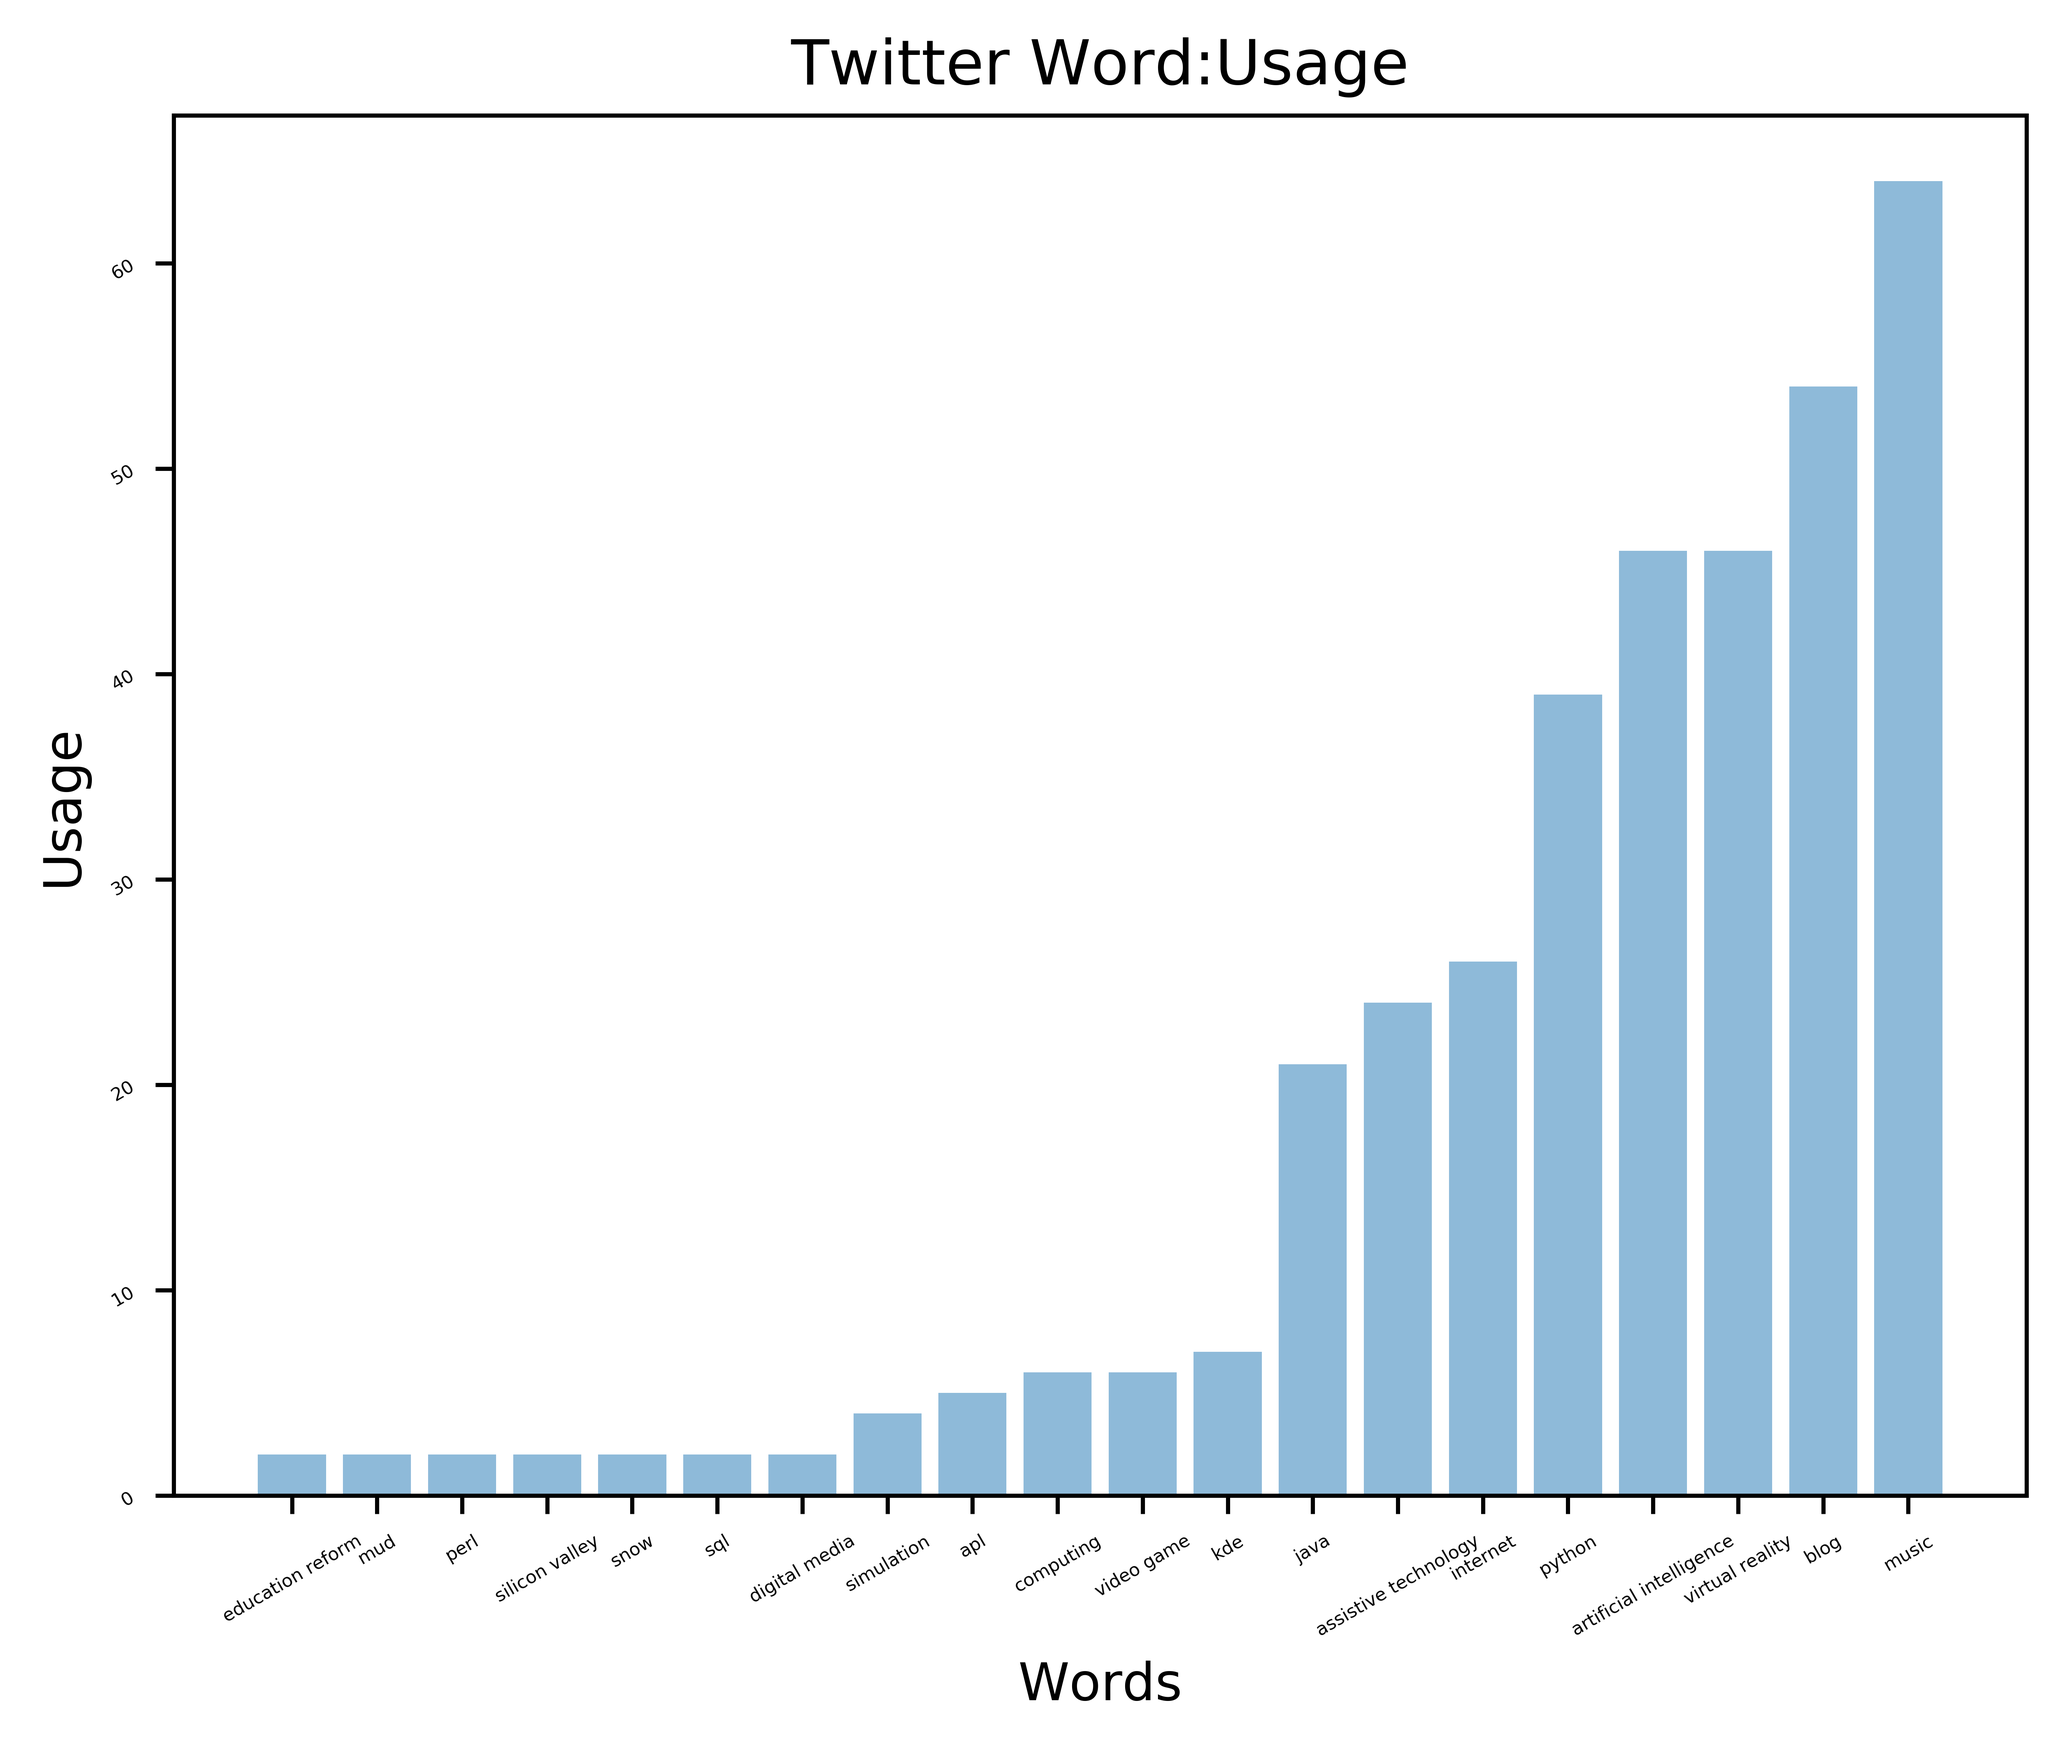
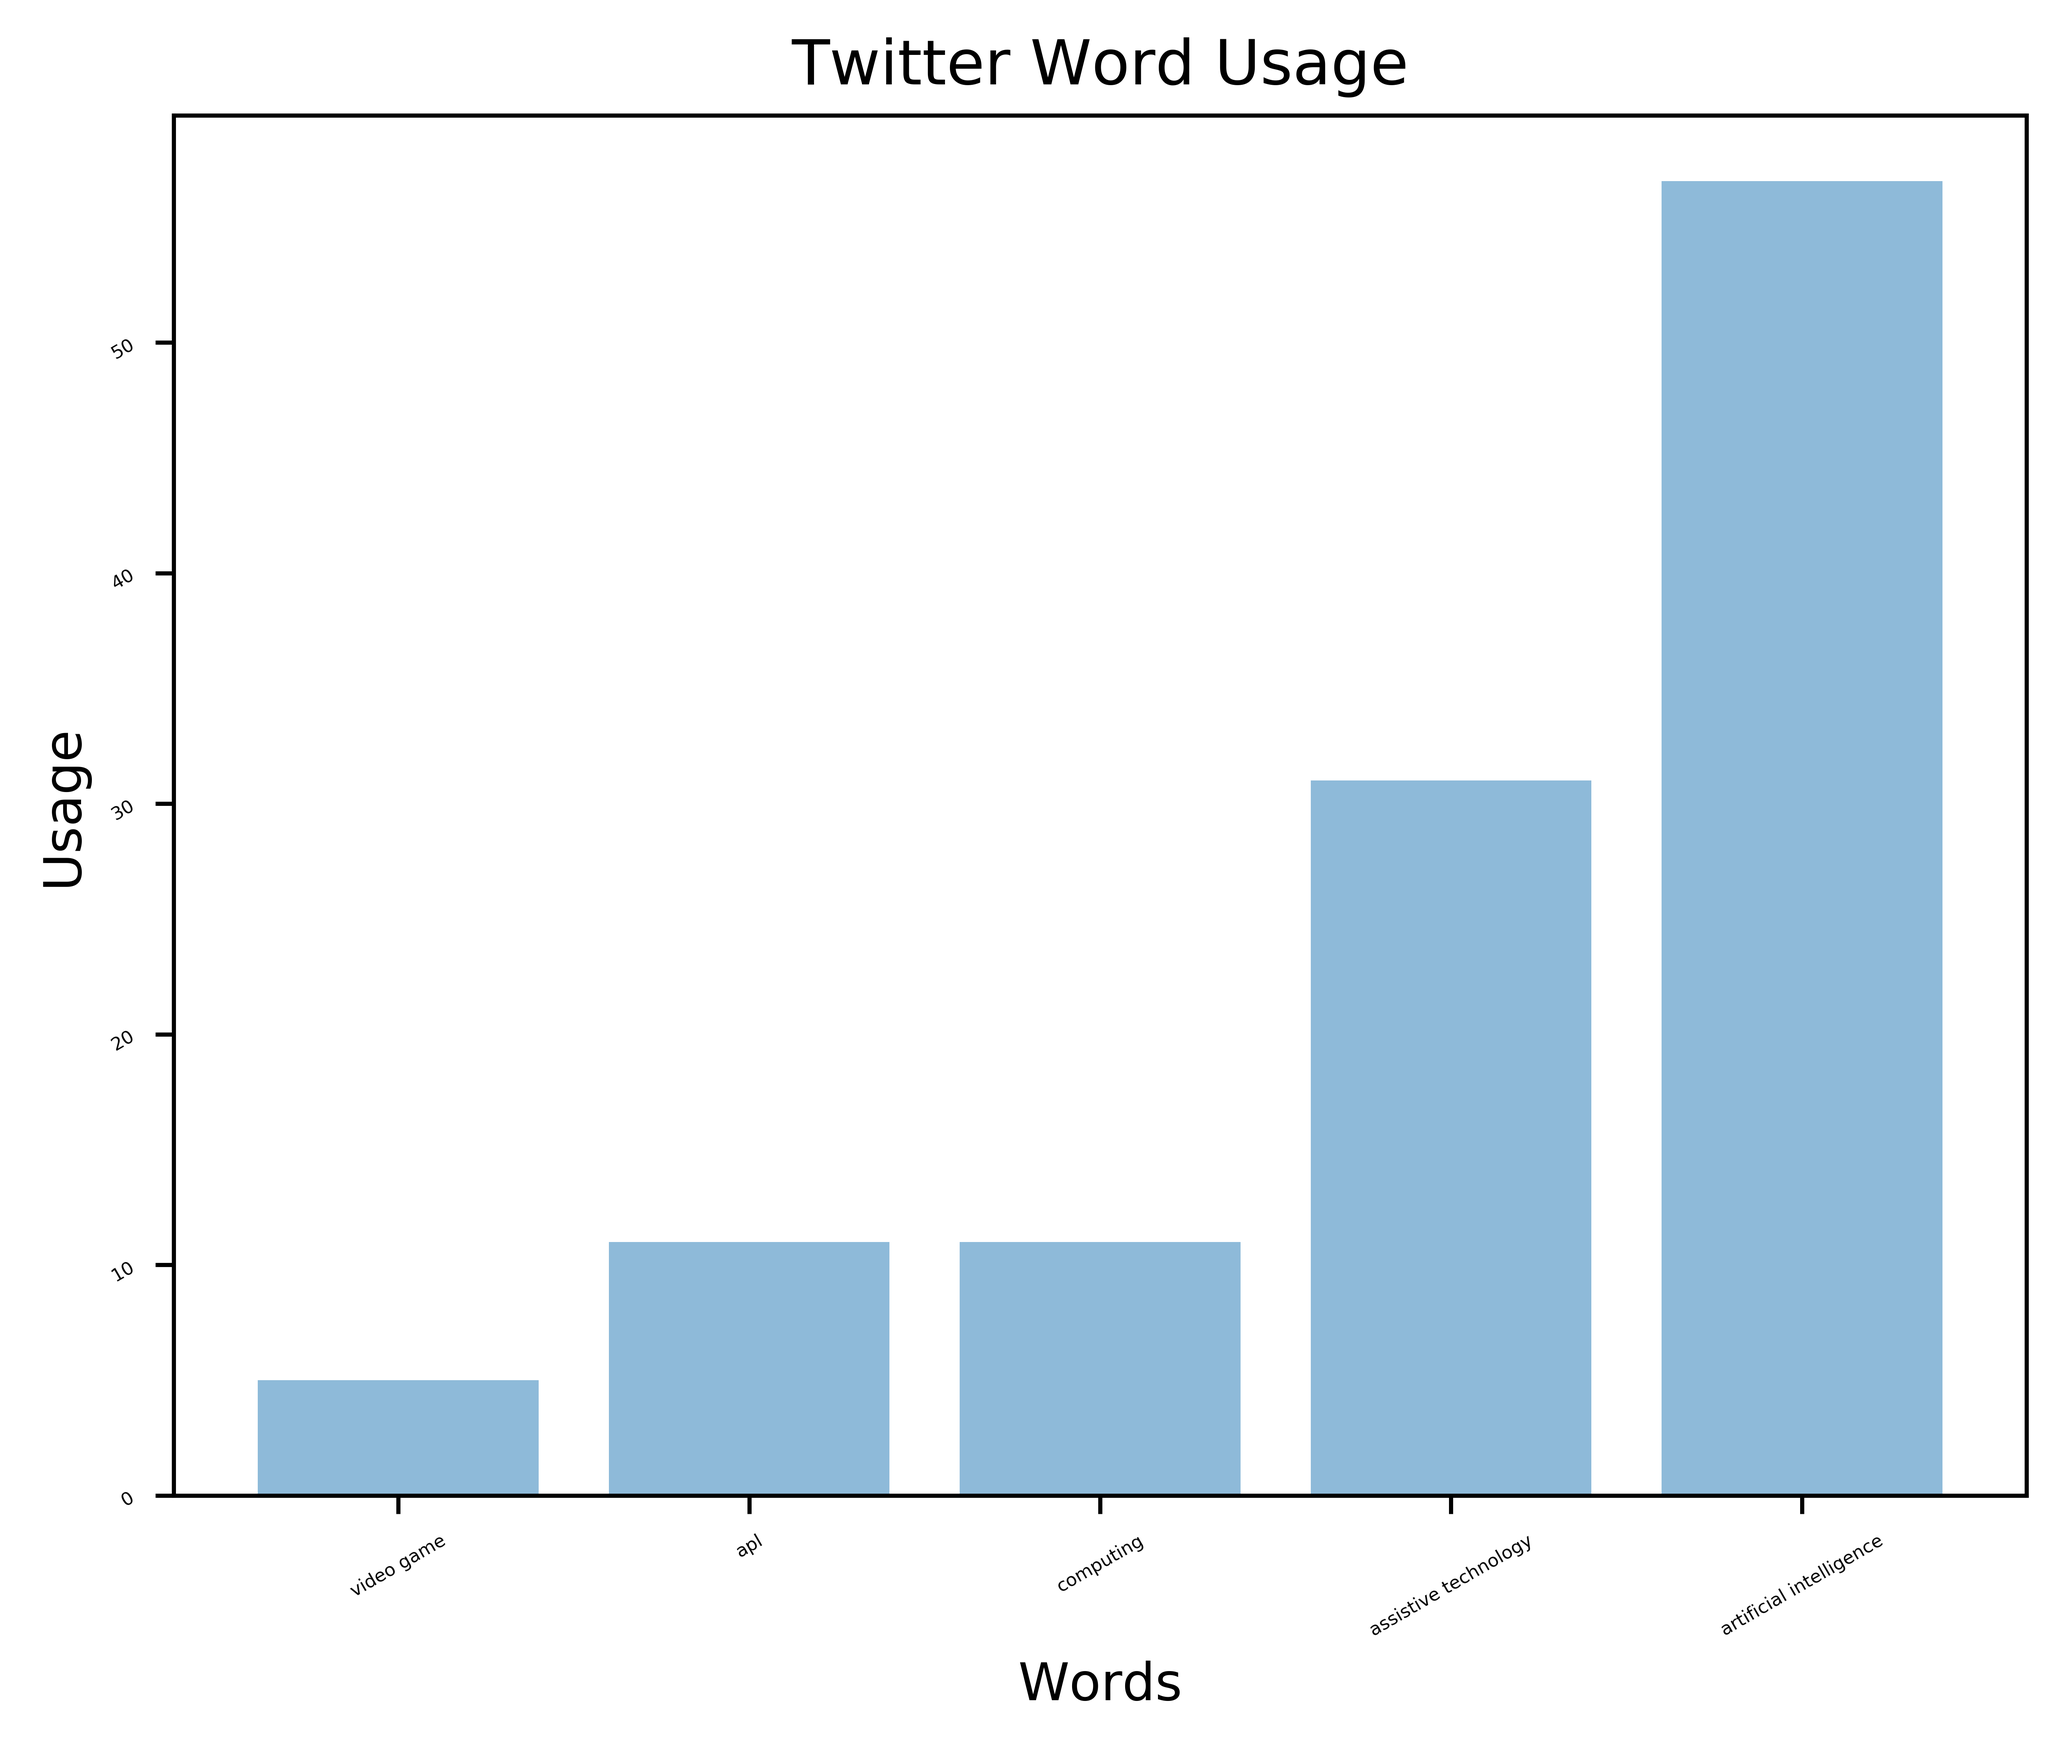
final thing

Changed region(s): [[0.1245, 0.0936, 0.9334, 0.9045], [0.8712, 0.8733, 0.9023, 0.9045], [0.6534, 0.9045, 0.6845, 0.9357]]

diff --git a/Classify.py b/Classify.py
@@ -5,14 +5,20 @@
 
 import en_core_web_sm
 import re
+import requests
 import json
-import time
 from xml.etree.cElementTree import iterparse
 from collections import OrderedDict
 import numpy as np
 import matplotlib.pyplot as plt
+import smtplib
+from email.mime.multipart import MIMEMultipart
+from email.mime.text import MIMEText
+from email.mime.base import MIMEBase
+from email import encoders
+import datetime
 
-# Initialize entity model
+# Define named-entity model
 nlp = en_core_web_sm.load()
 
 # Create blacklist/whitelist
@@ -31,26 +37,20 @@ def majority_whitelist(text):
     return float(count / len(words_of_interest)) >= 0.80
 
 
-# Generate education/technology related wikipedia articles
+# Generate education/technology related wikipedia articles from wikipedia dump file
 def generate_wikipedia_data():
-    num_analyzed = 0
-    on_topic = []
+    on_topic = []  # Article titles that are relevant
     title = ""
     text = ""
-    # Go through XML
+    # Stream XML (MAKE SURE YOU HAVE WIKIPEDIA.XML DUMP FILE)
     for event, elem in iterparse(".\\wikipedia.xml"):
-        if num_analyzed == 50000:
-            break
         # Try to get title and text
         if "title" in elem.tag:
             title = elem.text
         if "text" in elem.tag:
             text = elem.text
-        # A title:text pair has been made
+        # If a title:text pair has been made
         if text != "" and title != "" and text is not None and title is not None:
-            num_analyzed += 1
-            if num_analyzed % 1000000 == 0:
-                print(num_analyzed)
             # Make sure it's not already been analyzed and that its text is relevant
             if majority_whitelist(text.lower()):
                 # Make sure title is relevant
@@ -62,24 +62,24 @@ def generate_wikipedia_data():
                         title = re.sub(twitter_blacklist_word, "", title.lower()).strip()
                     on_topic.append(title)
             # Clear variables to keep going
+            num_processed += 1
             title = ""
             text = ""
-        elem.clear()
     return on_topic
 
 
-# Get tweet data
+# Get tweet data from API
 def generate_tweet_data():
-    # Get twitter data
-    with open('.\\tweets.json', 'r', encoding='utf-8') as file:
-        text = json.loads(file.read())
-        list = []
-        for p in text["Tweets"]:
-            list.append(p["Text"])
+    # Get the daily twitter dump and write to file
+    response = requests.get("http://triton.zlw-ima.rwth-aachen.de:50001/twitter")
+    text = json.loads(response.text)
+    list = []
+    for p in text["Tweets"]:
+        list.append(p["Text"])
     return list
 
 
-# Get counts of wikipedia topics mentioned on twitter
+# Get counts of wikipedia topics mentioned on twitter, return sorted dict
 def count_occurrences(wikis, tweets):
     counts = {}
     # Get counts of wiki topics showing in tweets
@@ -90,22 +90,25 @@ def count_occurrences(wikis, tweets):
                     counts.update({wiki: counts[wiki] + 1})
                 else:
                     counts.update({wiki: 1})
-        if wiki in counts and counts[wiki] >= 1000:
+        # Remove words with more than 2000 counts
+        if wiki in counts and counts[wiki] >= 2000:
             del (counts[wiki])
-    return counts
+    # Sort the dictionary by frequencies
+    sorted_counts = OrderedDict(sorted(counts.items(), key=lambda x: x[1]))
+    sorted_counts = {k: v for k, v in sorted_counts.items() if v != 0}
+    return sorted_counts
 
 
 # Output a graph of results (Co-author: Chris Bohlman)
 def output_graph(counts):
-    # Sort the counts
-    sorted_counts = OrderedDict(sorted(counts.items(), key=lambda x: x[1]))
-    sorted_counts = {k: v for k, v in sorted_counts.items() if v != 0}
-    keys = list(sorted_counts.keys())[len(sorted_counts) - 20: len(sorted_counts)]
-    values = list(sorted_counts.values())[len(sorted_counts) - 20: len(sorted_counts)]
+    # Cut down to length 20
+    keys = list(counts.keys())[len(counts) - 20: len(counts)]
+    values = list(counts.values())[len(counts) - 20: len(counts)]
+
     # Display top 20
     plt.ylabel('Usage')
     plt.xlabel('Words')
-    plt.title('Twitter Word:Usage')
+    plt.title('Twitter Word Usage')
     y_pos = np.arange(len(keys))
     plt.xticks(y_pos, keys)
     plt.tick_params(axis='both', labelsize=3.5, rotation=30)
@@ -113,14 +116,41 @@ def output_graph(counts):
     plt.savefig('graph_out.png', bbox_inches='tight', dpi=1000)
 
 
-# Get a count for how many corpus items are mentioned in twitter
-t = time.clock()
+# Send email with results
+def send_email(counts):
+    fromaddr = "python-server@elearning-finder.net"
+    toaddr = ['123@1230910.com']
+
+    msg = MIMEMultipart()
+    msg['From'] = fromaddr
+    msg['To'] = ", ".join(toaddr)
+    msg['Subject'] = "E-Learning Script Results: " + datetime.datetime.today().strftime('%d-%m-%Y')
+
+    body = str(counts)
+    msg.attach(MIMEText(body, 'plain'))
+    filename = "graph_out.png"
+    attachment = open(".\\graph_out.png", "rb")
+
+    part = MIMEBase('application', 'octet-stream')
+    part.set_payload(attachment.read())
+    encoders.encode_base64(part)
+    part.add_header('Content-Disposition', "attachment; filename= %s" % filename)
+    msg.attach(part)
+
+    server = smtplib.SMTP('smtp.1und1.de', 587)
+    server.starttls()
+    server.login(fromaddr, input("Your email password: "))
+    text = msg.as_string()
+    server.sendmail(fromaddr, toaddr, text)
+    server.quit()
+
+
 wikis = generate_wikipedia_data()
 tweets = generate_tweet_data()
 counts = count_occurrences(wikis, tweets)
 output_graph(counts)
-print(counts)
-print(time.clock() - t)
+send_email(counts)
+
 
 
 

diff --git a/old_scripts/CleanText.py b/old_scripts/CleanText.py
@@ -14,9 +14,7 @@ from nltk.corpus import wordnet as wn
 # Some important variables
 english_words = set(nltk.corpus.words.words())
 stops = set(stopwords.words("english"))
-print(wn.__class__)          # <class 'nltk.corpus.util.LazyCorpusLoader'>
-wn.ensure_loaded()           # first access to wn transforms it
-print(wn.__class__)          # <class 'nltk.corpus.reader.wordnet.WordNetCorpusReader'>
+wn.ensure_loaded()
 
 
 # Remove brackets, punctuation etc.
